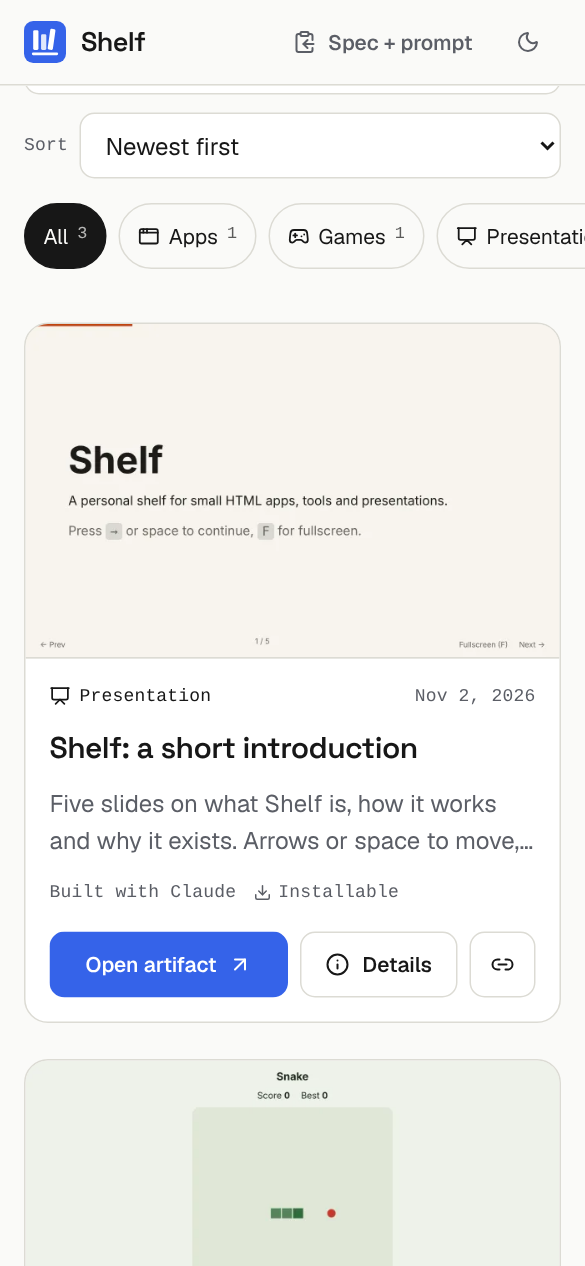
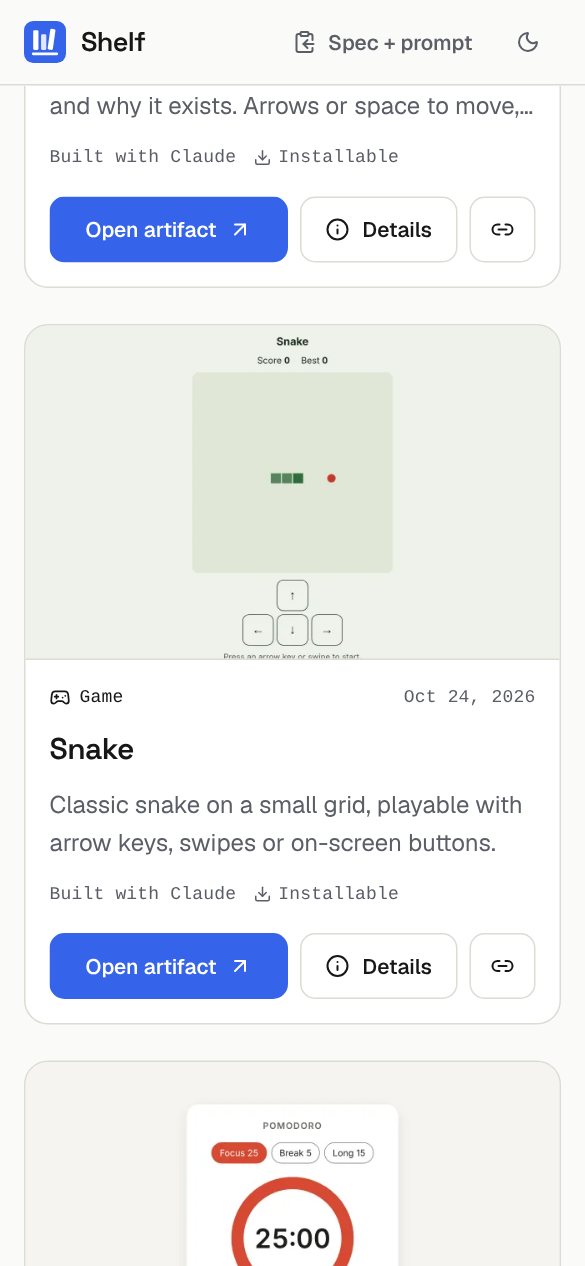
Remove the hero and the visible Explore Shelf title/counter
The page now opens on search, filters and the artifacts. A visually hidden h1, the
Explore Shelf h2 and the result count remain for screen readers and search engines.
Spec + prompt stays in the header. Tests and screenshots updated.

Claude-Session: https://claude.ai/code/session_01EBXwTxFwuT6Cw9wUo15xkh

diff --git a/gallery/src/App.tsx b/gallery/src/App.tsx
@@ -5,7 +5,6 @@ import { Explore } from "@/components/explore"
 import { Featured } from "@/components/featured"
 import { Footer } from "@/components/footer"
 import { Header } from "@/components/header"
-import { Hero } from "@/components/hero"
 import { ArtifactDialog } from "@/components/artifact-dialog"
 import { useBrowse } from "@/hooks/use-browse"
 import { useDetailsRoute } from "@/hooks/use-details-route"
@@ -58,8 +57,9 @@ export default function App() {
     <div className="min-h-dvh">
       <Header theme={theme} onToggleTheme={toggle} repo={repo} />
 
-      <main id="main" tabIndex={-1} className="outline-none">
-        <Hero />
+      <main id="main" tabIndex={-1} className="pt-8 outline-none sm:pt-12">
+        {/* The page title is for screen readers and search engines; the collection itself is the first thing on screen. */}
+        <h1 className="sr-only-live">Shelf: small experiments, useful creations</h1>
 
         {state.status === "loading" && (
           <section className="wrap pb-16" aria-busy="true" aria-label="Loading artifacts">

diff --git a/gallery/src/components/explore.tsx b/gallery/src/components/explore.tsx
@@ -50,15 +50,13 @@ export function Explore(p: Props) {
 
   return (
     <section id="explore" tabIndex={-1} aria-labelledby="explore-title" className="wrap scroll-mt-16 pb-16 outline-none">
-      <div className="mb-6 border-t border-line pt-8">
-        <h2 id="explore-title" className="text-2xl font-semibold sm:text-3xl">
-          Explore Shelf
-        </h2>
-        {/* Not shown on screen, but announced to screen readers whenever a search or filter changes the results. */}
-        <p className="sr-only-live" role="status" aria-live="polite">
-          {countText}
-        </p>
-      </div>
+      {/* Section title and live result count: announced to screen readers, not drawn. */}
+      <h2 id="explore-title" className="sr-only-live">
+        Explore Shelf
+      </h2>
+      <p className="sr-only-live" role="status" aria-live="polite">
+        {countText}
+      </p>
 
       {all.length > 0 && (
         <div className="mb-8 space-y-4">

diff --git a/gallery/src/components/header.tsx b/gallery/src/components/header.tsx
@@ -36,16 +36,6 @@ export function Header({ theme, onToggleTheme, repo }: Props) {
           <span>Shelf</span>
         </a>
         <nav aria-label="Primary" className="ml-auto flex items-center gap-0.5 sm:gap-1">
-          <a
-            href="#explore"
-            onClick={(e) => {
-              e.preventDefault()
-              jumpTo("explore")
-            }}
-            className="btn btn-ghost hidden px-3 sm:inline-flex"
-          >
-            Explore
-          </a>
           <SpecButton className="btn btn-ghost px-3" />
           {repo && (
             <a href={repo} className="btn btn-ghost hidden px-3 sm:inline-flex" rel="noopener noreferrer">

diff --git a/README.md b/README.md
@@ -27,7 +27,7 @@ It is a personal project, built for one author. It is not a platform: no account
 - **Fast discovery.** Search (press `/`), category, tag and "installable" filters, four sort orders, shareable filtered URLs.
 - **Publishing in one command.** `python shelf add my-app.html` validates, names, files and describes an artifact, with nothing half-written if it fails.
 - **Short, permanent links.** Every artifact lives at a 4-character address like `…/shelf/74ng` (add `#3` for slide 3). Renamed artifacts keep their old addresses, and a CI check fails if a published link would stop working.
-- **A one-click brief for any AI.** The **Spec + prompt** button copies the prompt, the full spec and the metadata reference, ready to paste into Claude or ChatGPT.
+- **A one-click brief for any AI.** The **Spec + prompt** button in the header copies the prompt, the full spec and the metadata reference, ready to paste into Claude or ChatGPT.
 - **Sharing that looks right.** Open Graph and Twitter cards on every artifact address, a social preview image, sitemap and robots.
 - **Installable apps.** Mark an artifact `install: true` and it becomes an offline app on desktop or phone.
 - **Safer by default.** A browser-enforced network policy per artifact, secret scanning, request-limited screenshots, least-privilege CI. See [Security](#security-and-its-limits) for what is *not* covered.

diff --git a/docs/decisions.md b/docs/decisions.md
@@ -142,7 +142,8 @@ A running log of design decisions for Shelf, newest at the bottom. Each entry sa
 ## Wording and a quieter first screen
 
 - **Status:** decided
-- The gallery says "artifact" everywhere (the repo's own word); the hero's statistics line and the footer's count/date line were removed. Result counts (for example "3 of 4 artifacts match") stay because they are feedback for search and filters.
+- The gallery says "artifact" everywhere (the repo's own word). The statistics line, the footer's count/date line and then the whole hero (eyebrow, headline, description, buttons) and the visible "Explore Shelf" title and result counter were removed at the owner's request: the page opens directly on search, filters and the artifacts.
+- What stays, visually hidden: an `h1` ("Shelf: small experiments, useful creations"), the "Explore Shelf" `h2` and the result count as a polite live region, so screen readers and search engines still get a page outline and search/filter feedback. The "Spec + prompt" button lives in the header.
 
 ## Two new ways in: clipboard and inbox
 

diff --git a/docs/ai-workflow.md b/docs/ai-workflow.md
@@ -6,7 +6,7 @@ Create in Claude / ChatGPT → save the HTML → shelf add → preview → git p
 
 ## 1. Ask the AI for a Shelf-ready file
 
-Press **Spec + prompt** on the site (header or hero): it copies the prompt, the full spec and the metadata reference in one go. The same text is `python shelf prompt --full`; `python shelf prompt` prints just the short prompt. Paste it at the start of the conversation (or into the assistant's project/custom instructions so every new artifact follows them):
+Press **Spec + prompt** on the site (top right of the header): it copies the prompt, the full spec and the metadata reference in one go. The same text is `python shelf prompt --full`; `python shelf prompt` prints just the short prompt. Paste it at the start of the conversation (or into the assistant's project/custom instructions so every new artifact follows them):
 
 ```bash
 python shelf prompt --full   # same text as the button; pipe it to your clipboard tool

diff --git a/gallery/README.md b/gallery/README.md
@@ -18,7 +18,7 @@ node scripts/check-contrast.mjs   # WCAG 2.2 AA check of the colour tokens
 ```text
 src/
 ├── App.tsx                  page composition, "/" shortcut, loading and error states
-├── components/              header, hero, featured, explore (search + filters + grid),
+├── components/              header, featured, explore (search + filters + grid),
 │                            project-card, project-dialog, thumb, footer
 ├── hooks/                   use-manifest, use-browse (filters in the URL, sort preference),
 │                            use-details-route (dialog as a history entry), use-copy, use-theme
